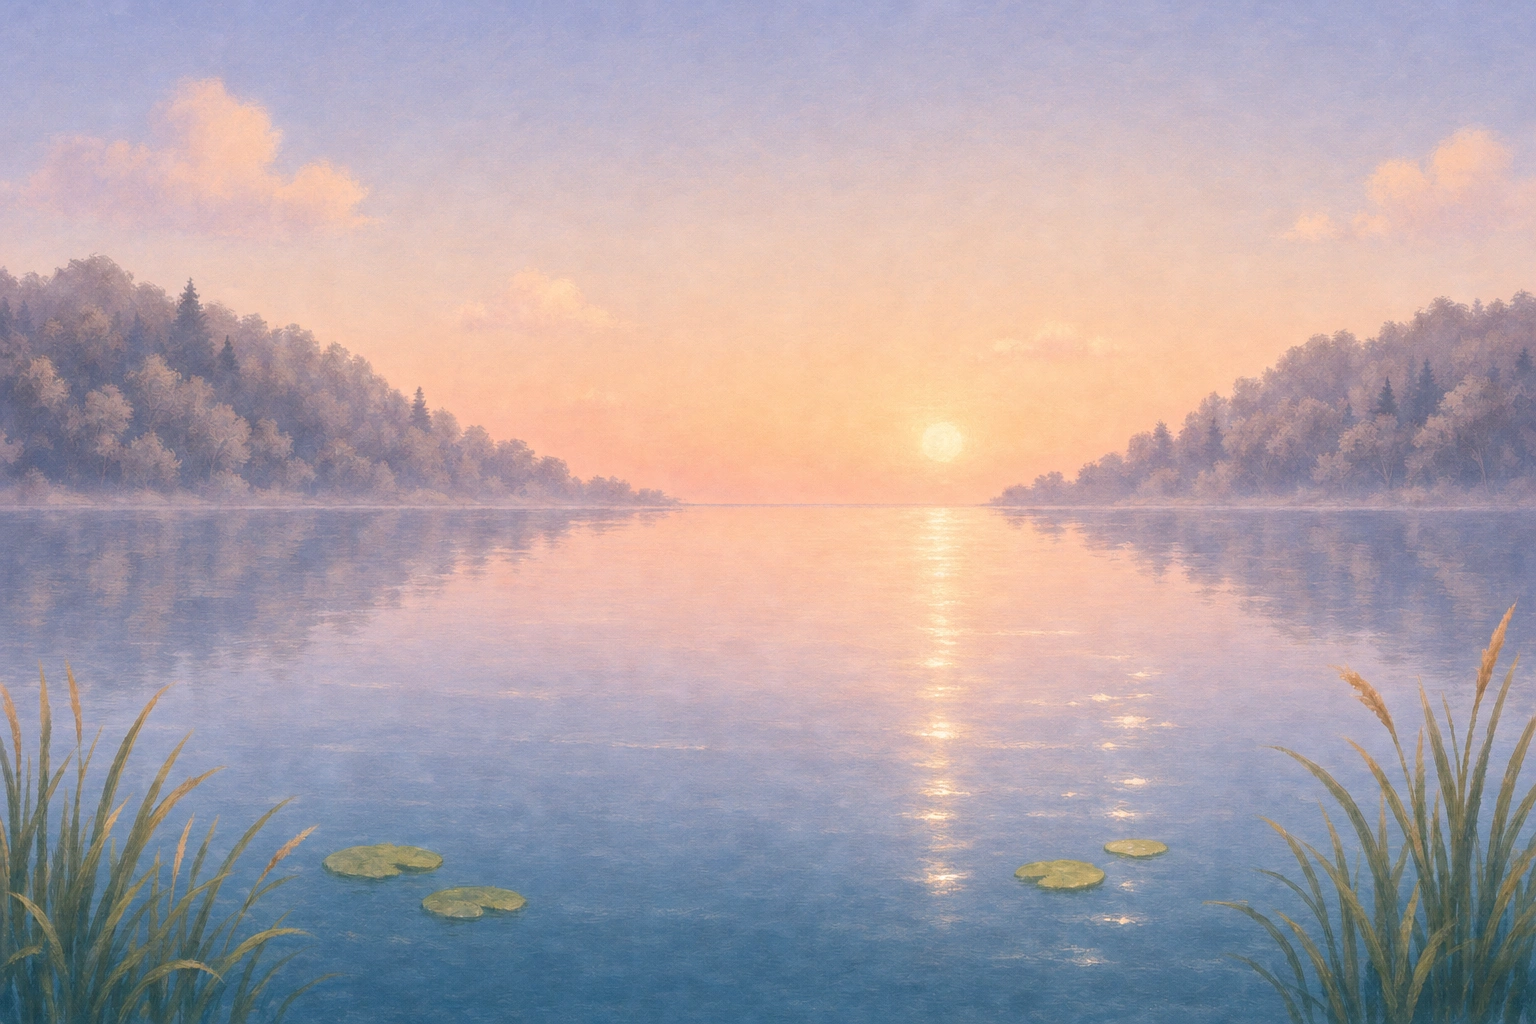
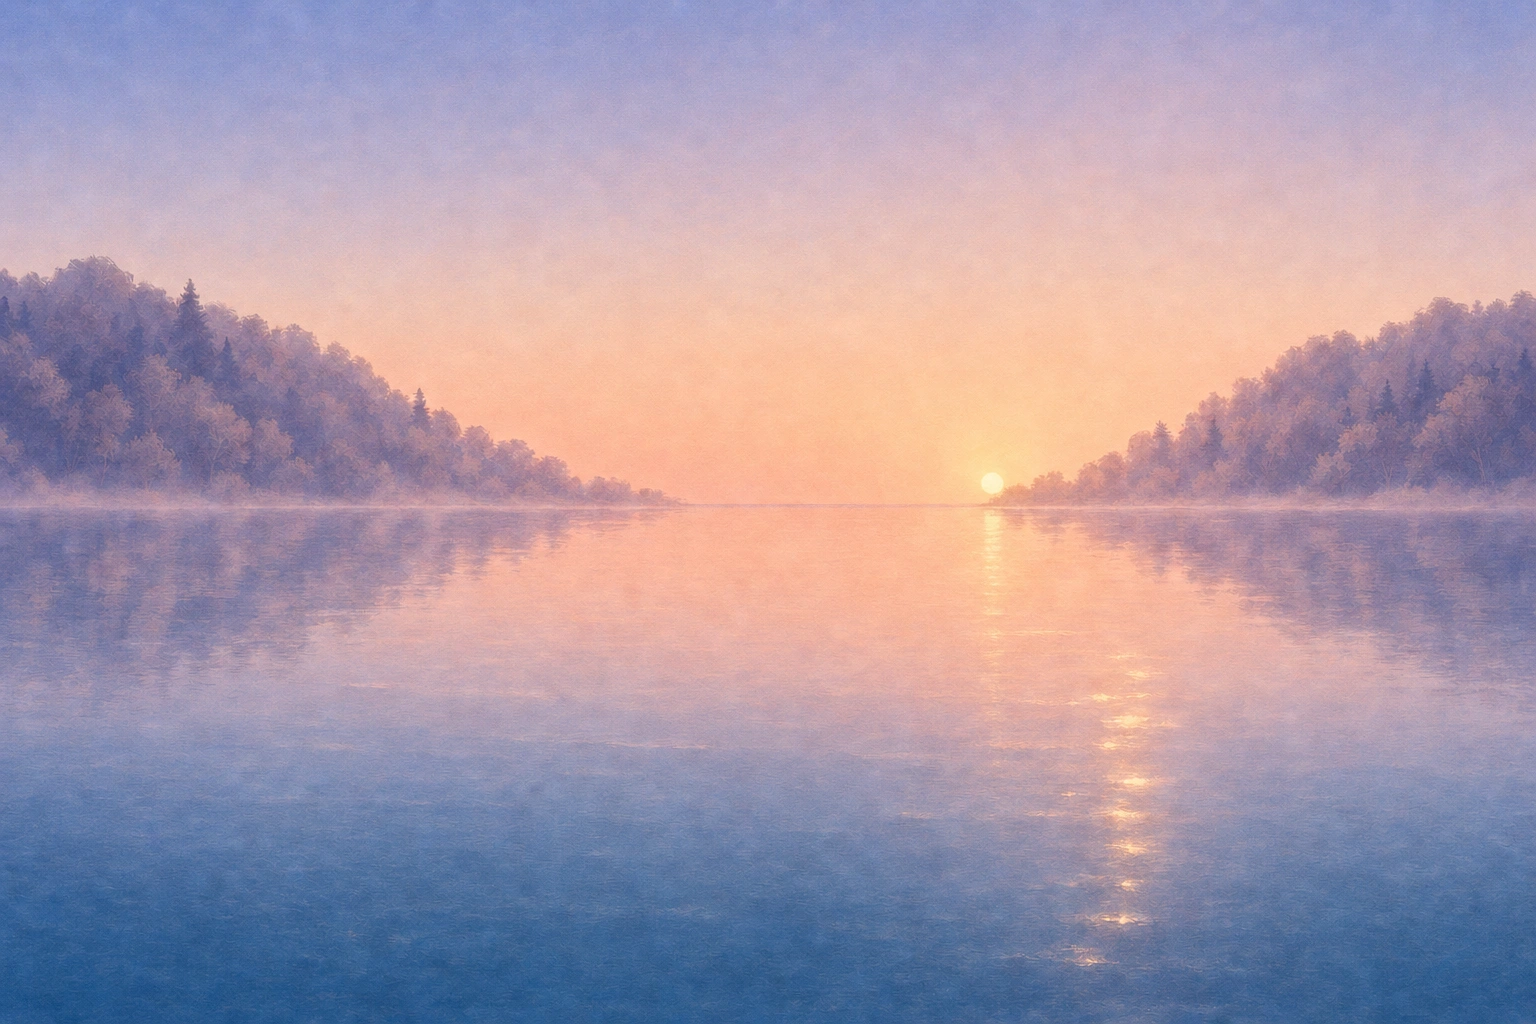
D-71 step 4: the cove's foreground pieces, and clear coves
The four coves are repainted without clouds, reeds or lily pads, all on
the same horizon. Clouds, two reed clumps, a stone heap with driftwood and
two lily pads are painted as separate pieces and cut to their own boxes,
so each can move at its own depth. Not wired yet.

diff --git a/tools/otty-art/generate.py b/tools/otty-art/generate.py
@@ -43,14 +43,16 @@ COVE = (
     'Composition, exactly: a perfectly straight, level horizon line across the whole picture at 37% of the height '
     'from the top. Above it, the sky, and low far hills along the horizon, with a gentle wooded hill rising on the left '
     'third and another on the right third, leaving a wide open gap in the centre where the sky meets the water. '
-    'The centre of the sky, top middle, stays calm and simple with only a few soft clouds, because text will sit there. '
+    'The sky is clear, with no clouds at all (clouds are separate pieces), and its top middle stays calm because text '
+    'will sit there. '
     'Below the horizon, calm open water with the sky and hills softly reflected and a few soft ripples, getting deeper '
-    'in colour towards the bottom. A few small clumps of reeds only in the bottom-left and bottom-right corners, kept '
-    'well below the horizon, and two or three small lily pads on the water. Nothing tall crosses the horizon line. '
+    'in colour towards the bottom, open right to the edges: no reeds, no lily pads, no stones, nothing in the '
+    'foreground (those are separate pieces laid over it). Nothing crosses the horizon line. '
 )
 SAME_COVE = (
-    'This is Otty\'s cove. Repaint this EXACT picture, keeping every shape, the horizon height, the hills, the reeds, '
-    'the lily pads and the brush style identical; change only the time of day, light and colour: '
+    'This is Otty\'s cove. Repaint this EXACT picture, keeping every shape, the horizon height, the hills, the open '
+    'water and the brush style identical, with no clouds, reeds, lily pads or stones; change only the time of day, '
+    'light and colour: '
 )
 
 FLOAT = (
@@ -63,6 +65,18 @@ FLOAT = (
 SAME_FLOAT = (
     'This is Otty floating on its back. Repaint this EXACT picture, keeping the size, position, angle, body, head, '
     'fur and brush style identical, and a plain pure white background; change only: '
+)
+
+PIECE = (
+    'Paint one object for Otty\'s lake cove, in the SAME soft dry-brush children\'s-book style as the reference: '
+    'visible brush strokes, soft edges, no outlines, muted warm colours that sit with the otter\'s browns and creams. '
+    'No otter, no animals. The object alone, whole and centred with space all round, nothing cut off, on a plain pure '
+    'white background with no shadow, no ground and no water: '
+)
+CLOUD = (
+    'Paint a single soft cloud for a storybook sky, in the SAME soft dry-brush style as the reference: visible brush '
+    'strokes, soft feathered edges. Paint it in pure white and light greys only, centred with plenty of space all '
+    'round, on a plain, flat, pure black background, nothing else: '
 )
 
 # name: (prompt, size, reference). Bust expressions keep the reference's face; only what the expression needs changes.
@@ -91,6 +105,12 @@ RECIPES: dict[str, tuple[str, str] | tuple[str, str, str]] = {
               'wide and excited, smiling.', '1024x1024'),
     'cove-day': (COVE + 'Time: a clear bright afternoon. Soft blue sky fading to pale near the horizon, a small white '
                  'sun high on the right, fresh greens on the hills, teal water with white glints.', '1536x1024'),
+    # How the kept cove-day lost its reeds, lily pads and clouds; the result was kept as cove-day.
+    'cove-day-clear': ('This is Otty\'s cove. Repaint this EXACT picture, keeping the sky colours, sun, hills, '
+                       'horizon height, water, reflections and brush style identical, but remove every cloud, every '
+                       'reed and every lily pad: clear sky where the clouds were, and open water continuing to the '
+                       'edges and corners where the reeds and pads were. No otter, no animals, no people.', '1536x1024',
+                       'cove-day.webp'),
     'cove-dawn': (SAME_COVE + 'dawn. Lavender-blue sky fading to peach and rose at the horizon, a low pale sun just above '
                   'the horizon a little right of centre, soft mist along the hills, hills in hazy violet-grey, water '
                   'pink near the horizon and slate blue below, with a soft sun path.', '1536x1024', 'cove-day.webp'),
@@ -109,6 +129,23 @@ RECIPES: dict[str, tuple[str, str] | tuple[str, str, str]] = {
                      'front paws, looking at it with delight.', '1536x1024', 'float.webp'),
     'float-doze': (SAME_FLOAT + 'dozing: eyes gently closed as soft downward curves, a tiny content smile, front paws '
                    'folded on its chest.', '1536x1024', 'float.webp'),
+    # Foreground pieces, laid over the cove and moved on their own (D-71 step 4).
+    'reeds-tall': (PIECE + 'A tall clump of lake reeds and cattails, about ten slender blades and three brown cattail '
+                   'heads, growing from one base, leaning gently to the right. Sage and olive greens.', '1024x1536'),
+    'reeds-low': (PIECE + 'A low, wide clump of short lake reeds and grasses, about fifteen blades of different '
+                  'heights, a little wider than tall. Sage and olive greens with a few straw-coloured tips.',
+                  '1536x1024'),
+    'stones': (PIECE + 'A small heap of smooth, rounded shore stones in warm greys and sandy browns, five or six '
+               'stones of different sizes, with a short piece of pale, sun-bleached driftwood lying across the front, '
+               'and a little moss on the biggest stone. Seen from slightly above, as if at the water\'s edge.',
+               '1536x1024'),
+    'lilypad': (PIECE + 'One round lily pad with a small notch, lying flat on water, seen from a low angle so it '
+                'looks like a wide flattened oval. Soft sage green with lighter veins. No water drawn.', '1536x1024'),
+    'lilypad-flower': (PIECE + 'Two overlapping lily pads lying flat, seen from a low angle as wide flattened ovals, '
+                       'with one soft pink water-lily flower open on the bigger pad. Sage greens. No water drawn.',
+                       '1536x1024'),
+    'cloud-wide': (CLOUD + 'One long, low, wispy cloud, much wider than tall.', '1536x1024'),
+    'cloud-puff': (CLOUD + 'One soft, rounded, puffy cloud, a little wider than tall.', '1536x1024'),
 }
 
 
@@ -164,7 +201,8 @@ def main(args: list[str]) -> None:
         img = paint(*RECIPES[name])
         if img.size == (1024, 1024):
             img = img.resize((SOURCE_SIZE, SOURCE_SIZE), Image.LANCZOS)
-        n = len(list(TRIES.glob(f'{name}-*.webp'))) + 1
+        n = 1 + max([int(t.stem[len(name) + 1:]) for t in TRIES.glob(f'{name}-*.webp')
+                     if t.stem[len(name) + 1:].isdigit()], default=0)
         img.save(TRIES / f'{name}-{n}.webp', quality=95)
         print('painted', (TRIES / f'{name}-{n}.webp').relative_to(ROOT))
 

diff --git a/tools/otty-art/prepare.py b/tools/otty-art/prepare.py
@@ -35,6 +35,8 @@ OTTER = 790  # width of Otty on the tile; the shoulders run off its bottom edge
 COVE_OUT = ROOT / 'src/renderer/src/assets/cove'
 HORIZON, FEATHER = 506, 8
 FLOAT_W = 768  # width of the floating Otty frames
+PIECES = ('reeds', 'stones', 'lilypad', 'cloud')  # the cove's foreground pieces
+PIECE_MAX = 768  # longest side of a piece
 
 
 def load(name: str) -> np.ndarray:
@@ -132,7 +134,7 @@ def main() -> None:
         frames['idle-blink'] = idle * (1 - m) + load(closed.name) * m
     # Every other source but the cove is a bust expression in the same framing (generate.py), cut against its own background.
     for f in sorted(SRC.glob('*.webp')):
-        if f.stem not in ('idle', 'idle-eyes-closed') and not f.stem.startswith(('cove-', 'float')):
+        if f.stem not in ('idle', 'idle-eyes-closed') and not f.stem.startswith(('cove-', 'float') + PIECES):
             frames[f.stem] = load(f.name)
     for name, rgb in frames.items():
         cutout(rgb, bg if name.startswith('idle') else background(rgb)).save(OUT / f'{name}.webp', quality=88, method=6)
@@ -141,6 +143,36 @@ def main() -> None:
     for f in sorted(SRC.glob('cove-*.webp')):
         cove(f)
     floating()
+    for f in sorted(SRC.glob('*.webp')):
+        if f.stem.startswith(PIECES):
+            piece(f)
+
+
+def whole(rgb: np.ndarray) -> tuple[np.ndarray, np.ndarray]:
+    """A whole figure on white. The model paints a faint pale haze round it, which shows as a halo on dark water,
+    so the edge is pulled in 2px."""
+    color, alpha = matte(rgb, background(rgb, bottom=True))
+    alpha = np.asarray(Image.fromarray((alpha * 255).astype(np.uint8)).filter(ImageFilter.MinFilter(5))
+                       .filter(ImageFilter.GaussianBlur(1))).astype(np.float32) / 255
+    return color, alpha
+
+
+def piece(f: Path) -> None:
+    """A foreground piece of the cove (D-71 step 4), cut to its own box. Clouds are painted white on black, so their
+    opacity is their brightness; everything else is a whole figure on white."""
+    rgb = load(f.name)
+    if f.stem.startswith('cloud'):
+        alpha = rgb.max(axis=2) / 255
+        color = np.clip(rgb / np.maximum(alpha, 1e-3)[..., None], 0, 255)
+    else:
+        color, alpha = whole(rgb)
+    ys, xs = np.nonzero(alpha > 0.02)
+    m = 8
+    img = Image.fromarray(np.dstack([color, alpha * 255]).astype(np.uint8), 'RGBA')
+    img = img.crop((max(xs.min() - m, 0), max(ys.min() - m, 0), xs.max() + m, ys.max() + m))
+    img.thumbnail((PIECE_MAX, PIECE_MAX), Image.LANCZOS)
+    img.save(COVE_OUT / f'{f.stem}.webp', quality=85, method=6)
+    print('wrote', (COVE_OUT / f'{f.stem}.webp').relative_to(ROOT), img.size)
 
 
 def floating() -> None:
@@ -153,10 +185,7 @@ def floating() -> None:
     box = (xs.min() - m, ys.min() - m, xs.max() + m, ys.max() + m)
     for f in sorted(SRC.glob('float*.webp')):
         rgb = load(f.name)
-        color, alpha = matte(rgb, background(rgb, bottom=True))
-        # The model paints a faint pale haze round a whole figure, which shows as a halo on night water: pull the edge in.
-        alpha = np.asarray(Image.fromarray((alpha * 255).astype(np.uint8)).filter(ImageFilter.MinFilter(5))
-                           .filter(ImageFilter.GaussianBlur(1))).astype(np.float32) / 255
+        color, alpha = whole(rgb)
         dy, dx = (0, 0) if f.stem == 'float' else best_shift(base_a, alpha)
         img = Image.fromarray(np.dstack([color, alpha * 255]).astype(np.uint8), 'RGBA')
         moved = Image.new('RGBA', img.size)

diff --git a/docs/DEVLOG.md b/docs/DEVLOG.md
@@ -96,7 +96,7 @@ The working plan: what's next, how we'll build it, and how to check it works.
 | D-67 | Tests that find what people find: window invariants and a nav matrix (step 1), recorded fake-world cases, and a probe for agents | 🔨 step 1 built | — | S–M (step 1: S) |
 | D-37 | Feed Otty: drop files on the otter and a new chat opens with them attached | 🔨 step 1 built; step 2 waits for art | step 2: two painted frames (mouth open, munch) | S–M |
 | D-38 | Otter moods: sleepy when idle, wakes on hover, cheers and tilts its head, inside the idle budget | ⏳ needs art | painted mood frames | S–M |
-| D-71 | Otty's painted set: a generator for new art in the house style, then the expressions, the cove and a full-body Otty floating on its back | 🔨 steps 1–3 built (art) | an OpenAI key in the owner's Keychain | M–L (step 1: S) |
+| D-71 | Otty's painted set: a generator for new art in the house style, then the expressions, the cove and a full-body Otty floating on its back | 🔨 steps 1–4 built (art) | an OpenAI key in the owner's Keychain | M–L (step 1: S) |
 | D-1 | Context-aware intents (local encoder classifier); re-scored H → M on 2026-11-20 | ⏳ later | its step 0, OCR helper (`intent_feedback`, with embeddings, is in schema v1) | L |
 | D-14 | Otty's own snip: a cute paw cursor on a frozen screen and instant crop | ⏸ skipped for now, by choice | — | M |
 | D-25 | Fast and Best: two model slots | ⏸ much later, by choice | — | S |
@@ -423,6 +423,8 @@ Step 2's art is painted too: `cove-day` (the second try, softer and warmer than 
 
 Step 3's art is painted too: `float` (Otty's face, on its back, paws on its chest, feet and tail up), then `float-paddle` (the second try: the first grew a third hind foot), `float-pebble` (a piece of teal sea glass, the Pebble look) and `float-doze`, repainted from it. `prepare.py` lines each up with the base by its outline (pebble had drifted 17px), cuts them with the base's box at 768px wide (180 KB for the four), and pulls the edge in 2px, because the model paints a faint pale haze that showed as a halo on night water; the outermost whisker tips go with it. Checked on all four coves with the lower third faded as a water line. When wired: the water line is a CSS mask, and the otter needs a per-time-of-day tint (it keeps daylight colours on night water), not repainted poses per time. A ripple ring round it is still to paint or draw.
 
+Step 4's art is painted too. `cove-day-clear` took the kept day picture's clouds, reeds and lily pads out (the second try: the first added an otter, because every request opens by naming Otty) and was kept as `cove-day`; dawn, golden hour and night were repainted from it, all still on row 506. The pieces were each right first time: `reeds-tall`, `reeds-low`, `stones` (with driftwood and moss), `lilypad`, `lilypad-flower`, `cloud-wide`, `cloud-puff`. They're painted alone on white (clouds white on black, so their opacity is their brightness) and cut to their own box, longest side 768px, into `assets/cove/` (812 KB for the folder). A test scene at the draft's 960×660 (shore, clouds, water, pads, the otter, stones and reeds, each at its own scroll rate, and night with the pieces tinted) reads as one place. For the wiring: the picture is 640px tall at 960px wide, so it must cover the window and its water must blend into `--cv-deep`; pieces on the water need the otter's water-line fade; reeds can sway briefly from their base (`transform-origin: bottom`) when the otter drifts by; and pieces take the time of day as a CSS tint, like the otter.
+
 **Done when (step 1).** `npm run screens` runs the invariants in CI; each one fails on the bug it's for (checked by reverting that part of #81 locally: no Close, Pause's menu at rail width, New chat from Home); they add no screenshots.
 
 
@@ -524,7 +526,7 @@ Step 3's art is painted too: `float` (Otty's face, on its back, paws on its ches
 
 **Done when.** Each mood shows on its trigger, and `OTTY_METRICS=1` shows idle under 0.5% of a core with the otter asleep and awake.
 
-## D-71 · Otty's painted set 🔨 steps 1–3
+## D-71 · Otty's painted set 🔨 steps 1–4
 
 **Goal.** Every picture Otty needs, now and planned, painted in the same hand as today's portrait, so D-37 step 2, D-38 and the living cove stop waiting for art.
 
@@ -537,7 +539,8 @@ Step 3's art is painted too: `float` (Otty's face, on its back, paws on its ches
 1. The generator, and the bust expressions: thinking, oops, listening, wink, cheer, head tilt, sleepy, mouth open and munch (D-37), catch (W9). (S)
 2. The living cove: dawn, day, golden hour and night, each a sky-and-shore layer and a water layer, under 1.5 MB together. (M)
 3. A full-body Otty floating on its back: one painted base and poses repainted from it (a paddle frame, a Pebble on its chest, dozing), swapped in place while CSS bobs and drifts the whole otter. Repainted poses beat cutting one painting into parts, which would leave holes behind the head and paws. Inside the idle budget: brief or stepped motion only. Rolling over waits. (M)
-4. Later: a simplified small head for 34px, keepsakes, accessories, shells, the paw cursor (D-14).
+4. Foreground pieces, so the scene moves in more depths than two: the coves repainted clear (no clouds, reeds or lily pads), and clouds, reed clumps, a stone heap with driftwood and lily pads as cut-outs, each laid and moved on its own. (S)
+5. Later: a simplified small head for 34px, keepsakes, accessories, shells, the paw cursor (D-14).
 
 **Done when (step 1).** `generate.py` makes a named asset from the Keychain key and refuses to overwrite a kept source; each expression is in `source/`, passes review against the idle portrait, and comes out of `prepare.py` as a 512px WebP; LAUNCH_READINESS 12.7 notes the generator's terms.
 

diff --git a/CLAUDE.md b/CLAUDE.md
@@ -21,7 +21,7 @@
 - Window states (D-65, `src/main/roomy.ts`): one panel window, floating or roomy. Expand shows the Dock icon before the move and Shrink hides it after (W14); while roomy, whatever would open the floating window brings it forward; each state's bounds are main's alone (`windowBounds`, not `SETTABLE`). The app menu shows keys the window handles without registering them (`registerAccelerator: false`), and smoke fakes `app.dock`.
 - UI work: `tools/ui-preview` (launch config `ui-preview`) renders the real views in a browser with a mock `window.otty`. Use `?view=panel|quick|pickup|viewer` and `&scene=chat|compose|empty|tray|settings|provider|page|proofread|memory|memories|math|code|drawing|chart|cap|near|steps|logbook|logbook-wait|-next|-sent|-changed|-noted|-empty|-running|-paused|-entry|-search|-none|typography|paused|frame-menu|frame-pushed|frame-rail|frame-medium|frame-wide|frame-min|home|home-quiet|home-first|home-running|home-paused|history|find|onboarding`, the cards `confirm-read|confirm-open|confirm-search|confirm-reminder|confirm-unusual|receipts|rewind|noted`, the answer states `thinking|stopped|failed-key|failed-long` and Settings' `settings-you|-keys|-privacy|-usage|-conn|-help|-find|-retention|-broken|-recording` (for `pickup`: `reading|nowords|failed`; for `viewer`: `picture|slides`) (`&home=none` hides the home-language features). Design tokens (colours and text roles, hairlines, elevation, radius, spacing `--s-*`, type `--fs-*`/`--lh-*`, icons `--i-*`, motion `--t-*`) are at the top of `styles.css`, from DESIGN.md's "Foundations". Reuse them instead of new hex values, sizes or borders: `rules/renderer.test.ts` fails on a font-size, weight, padding, gap or radius that isn't a token (a short off-scale list, each a written spec) and on text under 4.5:1 in either theme. `npm run screens` compares every scene, light and dark, with `tools/ui-preview/screens/baseline/`; a wanted change is `npm run screens:update` (it copies the screenshots CI took on the branch, since CI's Mac is the reference), in a PR of its own.
 - Pick up text: `tools/otty-ocr/` is a Swift helper (Apple Vision), run by `src/main/ocr.ts` with the picture on stdin. `npm run dev` and `build:mac` build it into `build/bin`, and electron-builder ships it from there. Keep Chinese first in its language list. `pickup/Pickup.tsx` lays invisible text over the picture and handles ⌘C and ⌘A itself.
-- Otty is painted art: frames in `src/renderer/src/assets/otty/` are generated from `tools/otty-art/source/` by `tools/otty-art/prepare.py` (cut-out, crop, blink frame). The app icon, `build/icon.icns`, comes from the same script and is committed so CI can use it. Don't hand-edit the WebPs or the icon; add a source and rerun the script. New sources are painted by `tools/otty-art/generate.py` (D-71, OpenAI key from the Keychain, `idle.webp` as the style reference), reviewed by eye against idle, and kept from `tries/`; every non-idle source is cut as a bust frame, except `cove-*`, which is split at its horizon into shore and water layers in `assets/cove/`, and `float*` (the full-body Otty on its back), lined up with `float.webp` and cut whole. `components/Otter.tsx` stacks the frames and CSS animates them.
+- Otty is painted art: frames in `src/renderer/src/assets/otty/` are generated from `tools/otty-art/source/` by `tools/otty-art/prepare.py` (cut-out, crop, blink frame). The app icon, `build/icon.icns`, comes from the same script and is committed so CI can use it. Don't hand-edit the WebPs or the icon; add a source and rerun the script. New sources are painted by `tools/otty-art/generate.py` (D-71, OpenAI key from the Keychain, `idle.webp` as the style reference), reviewed by eye against idle, and kept from `tries/`; every non-idle source is cut as a bust frame, except `cove-*`, which is split at its horizon into shore and water layers in `assets/cove/`, `float*` (the full-body Otty on its back), lined up with `float.webp` and cut whole, and the cove's pieces (`reeds*`, `stones`, `lilypad*`, `cloud*`; clouds are white on black), each cut to its own box in `assets/cove/`. `components/Otter.tsx` stacks the frames and CSS animates them.
 - UI icons are Flaticon UIcons (rounded set) via `components/Icon.tsx` — no emoji in UI chrome. Colours are tokens at the top of `styles.css`.
 - Idle budget (NFR-3): under 0.5% of a core, measured with `OTTY_METRICS=1` (`metrics.ts`). A smooth `infinite` animation on an always-visible window redraws all day and cost 1.6% on its own, so step it or run it briefly, and re-measure after changing what runs while idle. Hidden windows get `data-asleep`, which pauses their animations. Measure and run long test jobs under `caffeinate`, because a sleeping Mac stalls timers and fails tests that wait on them.
 - Whole-screen capture uses `desktopCapturer`, which throws when Screen Recording is off, so it needs a `needs-screen` path. Otty's windows go invisible during it (`withWindowsHidden`).

diff --git a/docs/BRAINSTORM.md b/docs/BRAINSTORM.md
@@ -611,6 +611,8 @@ What makes Otty feel expensive and unlike a chat app with an avatar. The design 
 | **The living cove, step 3:** the cove follows the weather and season, from the Mac's own time and, if allowed, a coarse location, never sent anywhere | M | M | idea, after step 2 |
 | Answer surfacing through the water line: a new answer rises from just under a soft horizon at the bottom of the chat, rather than appearing (one `--t-settle`, then still) | M | S | idea, pairs with the capsule |
 | Ripples where you touch: a press on the cove or a Pebble sends one ring outwards (`--t-drift`, brief) | L | S | idea |
+| Reeds that sway as the otter drifts past, and a lily pad that bobs when pressed: the painted pieces (D-71 step 4) moved once, from their base, never while idle | M | S | idea, art ready |
+| Small visitors in the cove, painted through `tools/otty-art/`: a dragonfly at day, fireflies at dusk, a fish ring on the water, each brief and rare, never on a loop | M | S–M | idea |
 | Light that follows the otter: the hero's highlight sits where the otter floats, so cards near it catch a little more light | L | S | idea, after step 1 |
 | The window's edge as a water meniscus: a 1 px inner highlight that thickens slightly at the top, so the floating window reads as a drop of the cove | L | S | idea |
 | Trackpad haptics on armed buttons and a Pebble landing in the Pouch, through the Swift helper (`NSHapticFeedbackManager`) | M | M | idea, after the long-lived Swift helper |
